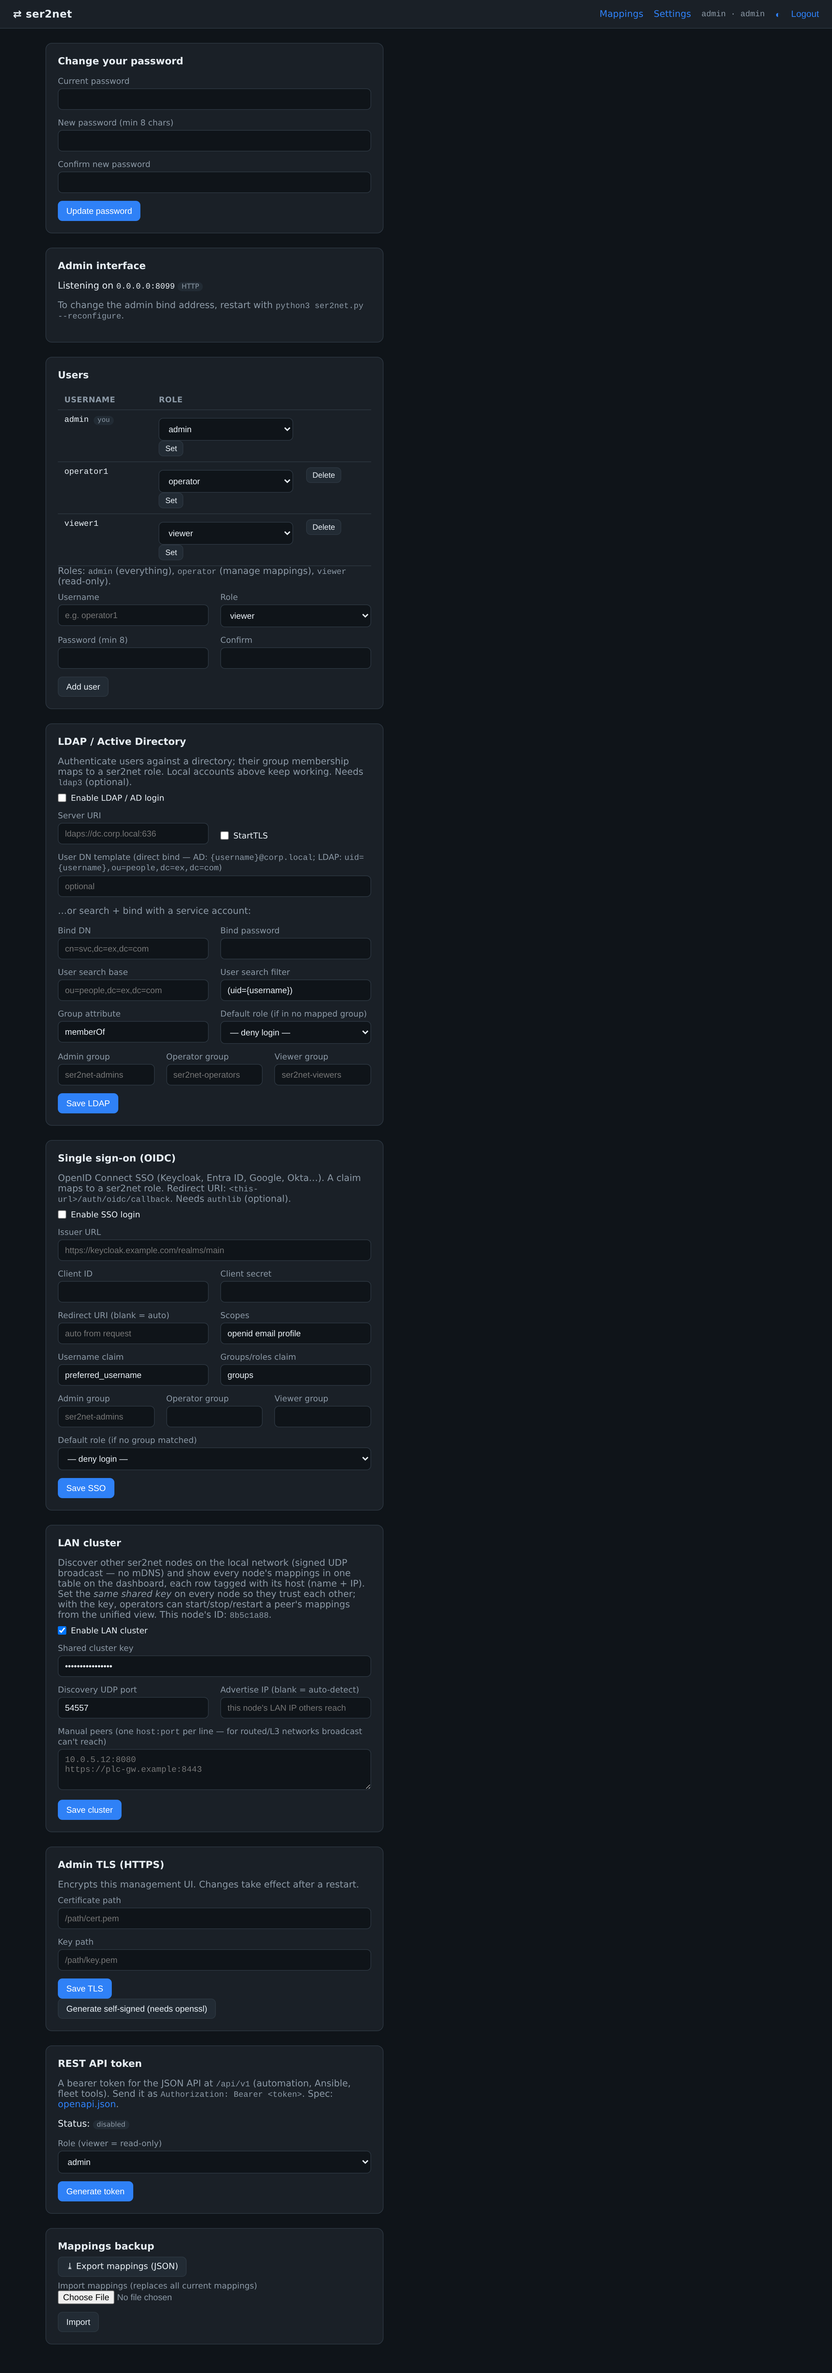
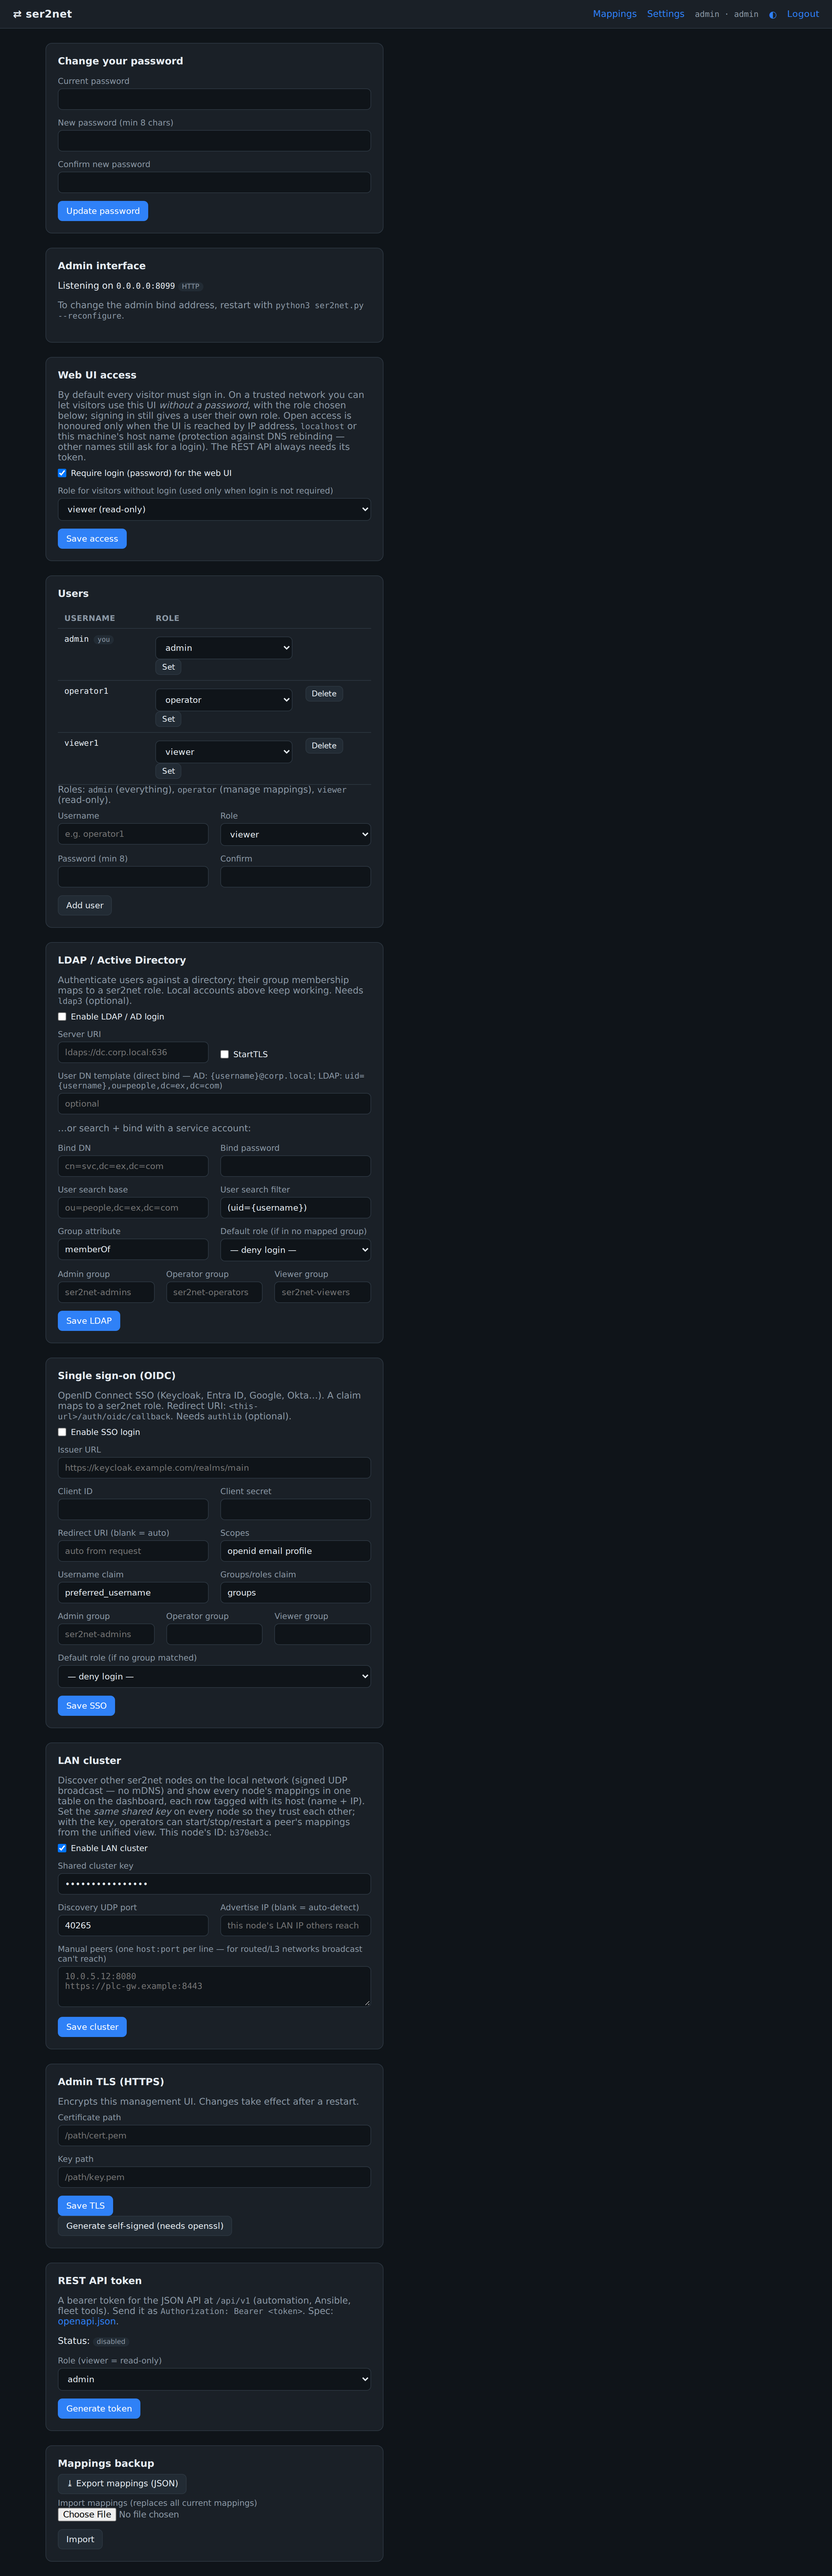
docs: v2.7.0 — connection lifecycle + optional login in README/ROADMAP (#24)
- README (TR/EN): connection-lifecycle feature (dead-peer detection via TCP
  keepalive, connect timeout, idle timeout, max connection time, disconnect
  reasons); Security: "password-protected by default" + how open access works
  and its limits (role, sign-in still works, REST token, IP/localhost/own-name
  only); Settings usage; Testing: -v and the opt-in half-open e2e test.
- ROADMAP: v2.7 shipped (#24); previously planned v2.7/v2.8 move to v2.8/v2.9.
- Screenshots: mapping form (keepalive block, connect timeout, max connection
  time) and settings (Web UI access panel) regenerated; others unchanged.
- Version 2.7.0.

Claude-Session: https://claude.ai/code/session_013kUXNrxJqT31Sot8TPpH6f

diff --git a/app/__init__.py b/app/__init__.py
@@ -1,4 +1,4 @@
 """ser2net — serial-to-network bridge with a web config UI."""
 
 # Single source of truth for the version (ser2net.py and the web layer import this).
-__version__ = "2.6.3"
+__version__ = "2.7.0"

diff --git a/README.md b/README.md
@@ -74,12 +74,21 @@ düzenlemeye gerek yok.
 - **Onlarca eşleme:** tek ekrandan ekle/düzenle/sil/başlat/durdur, canlı durum.
 - **Erişim kontrolü (eşleme başına):** izinli IP/CIDR listesi, **yüksek-öncelikli**
   istemci IP'leri (doluyken eski istemciyi atar), max bağlantı, eski-kullanıcıyı-at,
-  salt-okunur, idle timeout, banner, open/close string, `closeon`.
+  salt-okunur, banner, open/close string, `closeon`.
+- **Bağlantı yaşam döngüsü (eşleme başına, TCP):** **TCP keepalive ile ölü bağlantı
+  tespiti** — FIN/RST göndermeden kaybolan istemci ya da uzak sunucu (elektrik kesintisi,
+  kablo çekilmesi, Wi-Fi/VPN/NAT düşmesi) artık sonsuza dek `ESTABLISHED` kalmaz:
+  varsayılan ayarlarla (açık · 60 sn boşta · 10 sn aralık · 3 deneme) ~90 sn içinde
+  düşürülür ve yuvası boşalır — cihaz veri gönderirken de (Linux `TCP_USER_TIMEOUT`).
+  Ayrıca dışa bağlanmada **bağlantı zaman aşımı** (varsayılan 10 sn), **idle timeout**
+  ve **maksimum bağlantı süresi** (ör. 24 sa); her kopuş nedeniyle loglanır.
 - **Gözlemlenebilirlik:** per-mapping trafik trace (hex/timestamp), Prometheus
   `/metrics`, config-değişiklik audit log, canlı log görüntüleyici, ve **tarayıcı-içi
   seri konsol** (xterm.js, WebSocket — trafiği izle veya cihaza yaz).
 - **Güvenlik:** parola (ilk erişimde belirlenir, scrypt), CSRF, imzalı-çerez oturum,
   login oran sınırı, sıkı güvenlik başlıkları, parola değişince oturum iptali.
+  Güvenilir ağlar için giriş zorunluluğu **Ayarlar → Web UI access**'ten kapatılabilir
+  (ziyaretçiler seçilen rolle parolasız kullanır; bkz. Güvenlik).
 - **Çok-kullanıcı / RBAC:** `admin` / `operator` / `viewer` rolleri — viewer salt-okunur,
   operator eşlemeleri yönetir, admin her şey + kullanıcı yönetimi. Tek-parola kurulumları
   otomatik olarak bir `admin` kullanıcısına geçer.
@@ -181,8 +190,9 @@ ayarlanır — başsız ortamda interaktif seçici çalışamaz). Ayrıntılar:
 - **Başlat/Durdur/Yeniden başlat/Kopyala/Sil:** her satırda.
 - **Log:** eşlemenin geçmiş logu (en yeni üstte, restart sonrası kalıcı).
 - **Monitor:** tarayıcıda canlı seri terminal (xterm.js); ağ eşlemelerinde cihaza yazılabilir.
-- **Ayarlar:** parola değiştir, admin TLS (yol ver veya self-signed üret), **REST API
-  token'ı** üret/iptal et, mapping **yedek al/yükle** (JSON), durum.
+- **Ayarlar:** parola değiştir, **web arayüzü erişimi** (giriş zorunlu / parolasız rol),
+  admin TLS (yol ver veya self-signed üret), **REST API token'ı** üret/iptal et, mapping
+  **yedek al/yükle** (JSON), durum.
 - **/metrics:** Prometheus formatında metrikler (kimlik doğrulamalı).
 
 ---
@@ -213,11 +223,20 @@ Uç noktalar: `GET/POST /mappings`, `GET/PUT/DELETE /mappings/{id}`,
 
 ## 🔒 Güvenlik
 
-Arayüz **her zaman parola korumalı**. Varsayılan bind **127.0.0.1**; ağa açmak için
-açılışta IP seçimi gerekir ve TLS'siz ağ bind'inde uyarı verilir. LAN'a açılan
+Arayüz **varsayılan olarak parola korumalı**. Varsayılan bind **127.0.0.1**; ağa açmak
+için açılışta IP seçimi gerekir ve TLS'siz ağ bind'inde uyarı verilir. LAN'a açılan
 kurulumlarda TLS (`admin_ui.tls_*`) ve eşleme bazlı `allowed_client_ips` önerilir.
 Raw TCP düz-metindir — güvensiz ağlarda dikkat. Allowed/priority listesinde tek başına
 `0.0.0.0`/`::` "herkes" demektir.
+
+**Parolasız erişim (isteğe bağlı):** yalnızca güvenilir ağlar için, bir admin
+**Ayarlar → Web UI access**'ten "Require login"i kapatıp ziyaretçilere bir rol
+(`viewer` salt-okunur / `operator` / `admin`) verebilir. Oturum açmak yine mümkündür
+(kendi rolünüz geçerli olur), RBAC ve CSRF aynen uygulanır, **REST API her zaman
+token ister**. Parolasız erişim yalnızca arayüze **IP adresi, `localhost` veya makinenin
+kendi adıyla** gelindiğinde geçerlidir — başka bir alan adıyla (ör. DNS-rebinding yapan
+kötü niyetli bir sayfa) gelen istekler giriş ekranına yönlendirilir. Açıkken arayüzde
+uyarı gösterilir ve açılışta loga yazılır.
 
 ---
 
@@ -253,10 +272,18 @@ sisteminde çalışır:
 ```bash
 python3 tests/run_all.py            # taşınabilir takım (Windows + Linux)
 python3 tests/run_all.py --socat    # + socat tabanlı veri-yolu testleri (Linux)
+python3 tests/run_all.py -v         # geçen testlerin çıktısını da göster
 ```
 socat (Linux) ile sanal seri portlar kullanılır; donanım gerekmez. Tek tek de
 çalıştırılabilir, örn. `python3 tests/test_rest_api.py`. CI (GitHub Actions) ruff
 lint + tam matrisi (ubuntu/windows × Python 3.10–3.13) koşar.
+
+`tests/test_dead_peer.py` ölü bağlantı tespitini **gerçek yarı-açık (half-open) TCP
+bağlantılarıyla** da sınar: `SER2NET_BLACKHOLE_TESTS=1` verildiğinde bir loopback
+akışının paketlerini düşürür (Linux: root/şifresiz sudo + `iptables`; Windows: Yönetici
++ `pip install pydivert`). Güvenlik duvarını değiştirdiği için yerelde isteğe bağlıdır
+(Linux'ta tek kullanımlık bir network namespace içinde çalıştırmak önerilir); CI'da
+her iki işletim sisteminde de her zaman koşar.
 
 ---
 

diff --git a/README.en.md b/README.en.md
@@ -72,12 +72,21 @@ everything from a **password-protected web UI** — no CLI or hand-edited config
 - **Dozens of mappings:** add/edit/delete/start/stop from one screen, with live status.
 - **Per-mapping access control:** allowed IP/CIDR list, **high-priority** client IPs
   (a priority client evicts the oldest when the port is full), max connections,
-  kick-old-user, read-only, idle timeout, banner, open/close strings, `closeon`.
+  kick-old-user, read-only, banner, open/close strings, `closeon`.
+- **Connection lifecycle (per mapping, TCP):** **dead-peer detection via TCP keepalive**
+  — a client or remote server that vanishes without a FIN/RST (power cut, cable pull,
+  Wi-Fi/VPN/NAT drop) no longer stays `ESTABLISHED` forever: with the defaults (on ·
+  60 s idle · 10 s interval · 3 probes) it is dropped within ~90 s and its slot freed —
+  also while the device keeps sending (Linux `TCP_USER_TIMEOUT`). Plus a **connect
+  timeout** for connect-out (default 10 s), an **idle timeout** and a **max connection
+  time** (e.g. 24 h); every disconnect is logged with its reason.
 - **Observability:** per-mapping traffic trace (hex/timestamp), Prometheus `/metrics`,
   config-change audit log, live log viewer, and an in-browser **serial console**
   (xterm.js over WebSocket — watch traffic or type to the device).
 - **Security:** password (set on first access, scrypt), CSRF, signed-cookie sessions,
   login rate-limiting, strict security headers, session revocation on password change.
+  For trusted networks the login requirement can be switched off under **Settings → Web
+  UI access** (visitors then use the UI with a chosen role; see Security).
 - **Multi-user / RBAC:** `admin` / `operator` / `viewer` roles — viewer is read-only,
   operator manages mappings, admin does everything plus user management. Existing
   single-password setups migrate automatically to one `admin` user.
@@ -182,8 +191,9 @@ Inside the container the UI binds to `0.0.0.0` (set via `SER2NET_BIND_IP` /
 - **Log:** the mapping's history (newest first, persists across restarts).
 - **Monitor:** live serial terminal in the browser (xterm.js); type to the device on
   network mappings.
-- **Settings:** change password, admin TLS (provide paths or generate self-signed),
-  generate/revoke the **REST API token**, mappings **backup/restore** (JSON), status.
+- **Settings:** change password, **web UI access** (login required / open access with a
+  role), admin TLS (provide paths or generate self-signed), generate/revoke the **REST API
+  token**, mappings **backup/restore** (JSON), status.
 - **/metrics:** Prometheus-format metrics (authenticated).
 
 ---
@@ -214,11 +224,19 @@ Endpoints: `GET/POST /mappings`, `GET/PUT/DELETE /mappings/{id}`,
 
 ## 🔒 Security
 
-The UI is **always password-protected** and binds to **127.0.0.1** by default.
+The UI is **password-protected by default** and binds to **127.0.0.1** by default.
 Exposing it to the network requires an explicit IP choice at startup and warns when
 bound without TLS. For LAN deployments, use TLS (`admin_ui.tls_*`) and per-mapping
 `allowed_client_ips`. Raw TCP is plaintext — be careful on untrusted networks. A bare
 `0.0.0.0`/`::` in an allow/priority list means "any client".
+
+**Open access (optional):** for trusted networks only, an admin can untick "Require
+login" under **Settings → Web UI access** and give visitors a role (`viewer` read-only /
+`operator` / `admin`). Signing in still works (you get your own role), RBAC and CSRF
+apply unchanged, and the **REST API always needs its token**. Open access is honoured
+only when the UI is reached by **IP address, `localhost` or this machine's own name** —
+requests via any other host name (e.g. a malicious page doing DNS rebinding) are sent to
+the login page. While it is on, the UI shows a warning and startup logs it.
 
 ---
 
@@ -253,10 +271,17 @@ Unified test runner — the portable suite (no hardware, no socat) runs on every
 ```bash
 python3 tests/run_all.py            # portable suite (Windows + Linux)
 python3 tests/run_all.py --socat    # + socat-based data-path tests (Linux)
+python3 tests/run_all.py -v         # also show the output of passing tests
 ```
 The socat tests use virtual serial ports (Linux); no hardware needed. Individual
 files still run directly, e.g. `python3 tests/test_rest_api.py`. CI (GitHub Actions)
 runs ruff lint + the full matrix (ubuntu/windows × Python 3.10–3.13).
+
+`tests/test_dead_peer.py` also exercises dead-peer detection against **real half-open
+TCP connections**: with `SER2NET_BLACKHOLE_TESTS=1` it drops the packets of a loopback
+flow (Linux: root/passwordless sudo + `iptables`; Windows: Administrator +
+`pip install pydivert`). Since that edits the firewall it is opt-in locally (on Linux,
+best run inside a throwaway network namespace); CI always runs it on both OSes.
 
 ---
 

diff --git a/ROADMAP.md b/ROADMAP.md
@@ -1,6 +1,6 @@
 # ser2net — Roadmap
 
-> Current release: **v2.6.3**. CI is green across Linux + Windows × Python 3.10–3.13.
+> Current release: **v2.7.0**. CI is green across Linux + Windows × Python 3.10–3.13.
 
 ## Shipped
 
@@ -107,6 +107,25 @@
   via pyserial `rs485_mode`. Edit-preservation updated so the form owns the RS-485 fields
   while still carrying over the two it doesn't expose (`hangup_when_done`, `nobreak`).
 
+### v2.7 — connection lifecycle & optional login ([#24](https://github.com/haliskilic/ser2net/issues/24))
+- **Fix: dead TCP peers are detected.** A client (or connect-out remote / Modbus master)
+  that vanished without a FIN/RST — power cut, cable pull, Wi-Fi/VPN/NAT drop — stayed
+  `ESTABLISHED` forever on a quiet raw bridge and, with `max_connections=1`, locked
+  everyone else out ("Busy"). Every TCP data socket now gets **TCP keepalive**, on by
+  default (60 s idle / 10 s interval / 3 probes, per mapping): SO_KEEPALIVE +
+  TCP_KEEPIDLE/INTVL/CNT, `SIO_KEEPALIVE_VALS` on pre-1709 Windows, and on Linux
+  `TCP_USER_TIMEOUT` so the bound also holds while data is in flight.
+- **Connect timeout** for connect-out (TCP + TLS handshake; default 10 s, 0 = OS default),
+  **max connection time** (0 = unlimited), **idle timeout** now also on the Modbus
+  gateway; every disconnect is logged with its reason. All in the mapping form.
+- **Optional web login:** Settings → Web UI access — switch "Require login" off and give
+  visitors a role; signing in still works, the REST API keeps its token, and open
+  access applies only via IP / localhost / own host name (DNS-rebinding guard).
+- Tests: real **half-open TCP** end-to-end tests on Linux (iptables) **and Windows**
+  (WinDivert) in CI — dead client / dead client while streaming / connect-out dead remote
+  / dead Modbus master / SYN to a silent host / legacy Windows path, plus a keepalive-off
+  control that reproduces the original bug; timer and open-access e2e tests.
+
 ---
 
 ## Planned
@@ -116,12 +135,12 @@
 - Optional TLS certificate pinning for peer fetch/control; a light rate-limit on the
   key-guarded peer endpoints; optional IPv6 (multicast) discovery
 
-### v2.7 — industrial/IIoT depth
+### v2.8 — industrial/IIoT depth
 - **Sparkplug B** edge payloads (Modbus register + MQTT plumbing already in place)
 - **Modbus write** support (FC 5/6/15/16), per-point MQTT→register control, RTU
   inter-frame tuning
 
-### v2.8 — packaging & migration
+### v2.9 — packaging & migration
 - Windows service installer (Shawl); `.deb` / `.rpm` packages
 - Automated multi-platform offline wheelhouse (cp310–cp313 × OS) for source installs
 - Classic `ser2net.yaml` import for migration
